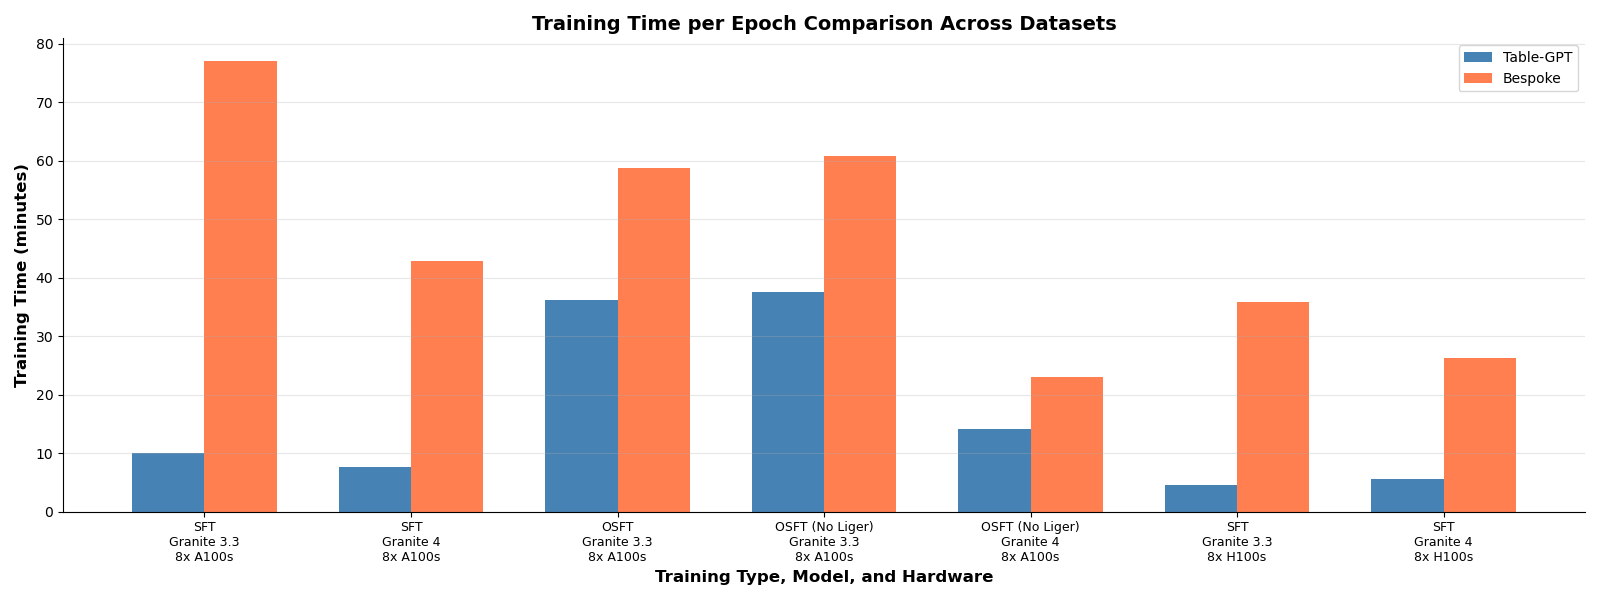
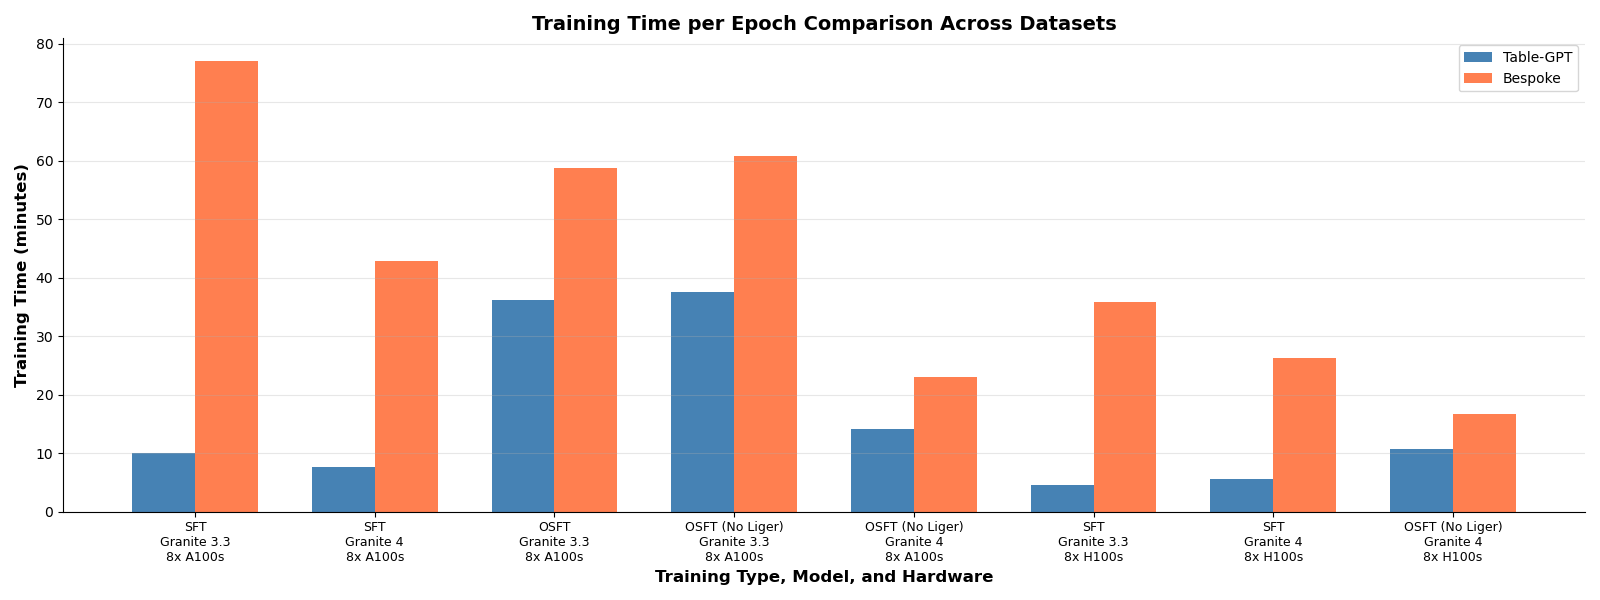
Quick update prior to PSAP meeting

Changed region(s): [[0.1562, 0.09, 0.9688, 0.93], [0.875, 0.87, 0.9375, 0.93], [0.0938, 0.87, 0.1562, 0.93]]

diff --git a/examples/docs/runtime_estimates.md b/examples/docs/runtime_estimates.md
@@ -11,11 +11,14 @@ For disclosure: Please note all bar plots shown in this document are based on co
 - **Datasets**: Two datasets were tested, a simple dataset in TableGPT and a much larger and longer dataset in Bespoke-Stratos-17k.
     - Please note that both datasets were obtained by downloading the dataset from HuggingFace and then extracting the .jsonl file. 
 - All experiments were run for the first full epoch two times, with the displayed time being the average of the two times. 
-    - The variation between the two runs was negligible, never more than 6 seconds. 
+    - On the A100 machine, the variation between the two runs was negligible, never more than 6 seconds. 
+    - The variation is a bit larger on the H100 machine, especially during the first run of a pod (the first result was discarded and reran if it varied significantly)
 - The time measurement is calculated by using the timestamps logged during the training process in the above scripts
 - By default, OSFT makes use of Liger Kernels to improve memory usage and runtime. However, as of Nov 7th 2025, Liger Kernels currently don't have built-in support for Granite 4
     - As a result, the script was modified for allow Liger Kernels to be disabled for certain experiments
-    - The tables will be updated once support for Liger Kernels is added.  
+    - The tables will be updated once support for Liger Kernels is added. 
+- Some of these tests had the checkpointing hardcoded to be disabled in the script
+    - This does not appear to impact runtime of the actual training loop, this was mostly done to conserve disk space
 
 ## Full Results
 
@@ -35,12 +38,12 @@ For disclosure: Please note all bar plots shown in this document are based on co
 | 8x H100s | SFT              | Granite 3.3 | Bespoke   | 00:35:47                        | 
 | 8x H100s | SFT              | Granite 4   | Table-GPT | 00:05:40                        | 
 | 8x H100s | SFT              | Granite 4   | Bespoke   | 00:26:19                        | 
-| 8x H100s | OSFT             | Granite 3.3 | Table-GPT | | 
-| 8x H100s | OSFT             | Granite 3.3 | Bespoke   | | 
-| 8x H100s | OSFT (No Liger)  | Granite 3.3 | Table-GPT | | 
-| 8x H100s | OSFT (No Liger)  | Granite 3.3 | Bespoke   | | 
+| 8x H100s | OSFT             | Granite 3.3 | Table-GPT | 00:46:04                        | 
+| 8x H100s | OSFT             | Granite 3.3 | Bespoke   |                                 | 
+| 8x H100s | OSFT (No Liger)  | Granite 3.3 | Table-GPT |                                 | 
+| 8x H100s | OSFT (No Liger)  | Granite 3.3 | Bespoke   |                                 | 
 | 8x H100s | OSFT (No Liger)  | Granite 4   | Table-GPT | 00:10:39                        | 
-| 8x H100s | OSFT (No Liger)  | Granite 4   | Bespoke   | | 
+| 8x H100s | OSFT (No Liger)  | Granite 4   | Bespoke   | 00:16:46                        | 
 
 
 ## Graph: A100 vs H100
@@ -67,7 +70,7 @@ For disclosure: Please note all bar plots shown in this document are based on co
 | 8x H100s | SFT              | Granite 4   | 00:05:40       | 00:26:19     | 00:20:39           | 4.64x           |
 | 8x H100s | OSFT             | Granite 3.3 |                |              |                    |                 |
 | 8x H100s | OSFT (No Liger)  | Granite 3.3 |                |              |                    |                 |
-| 8x H100s | OSFT (No Liger)  | Granite 4   |                |              |                    |                 |
+| 8x H100s | OSFT (No Liger)  | Granite 4   | 00:10:39       | 00:16:46     | 00:06:07           | 1.57x           |
 
 
 ## Graph: Granite 3.3 vs Granite 4
